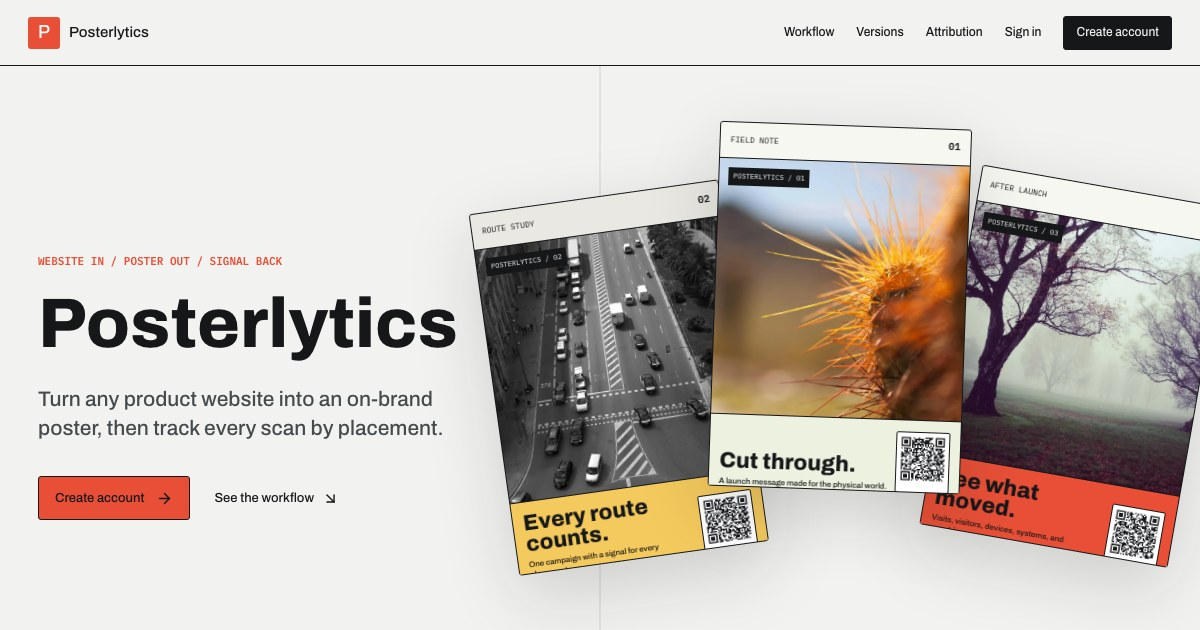
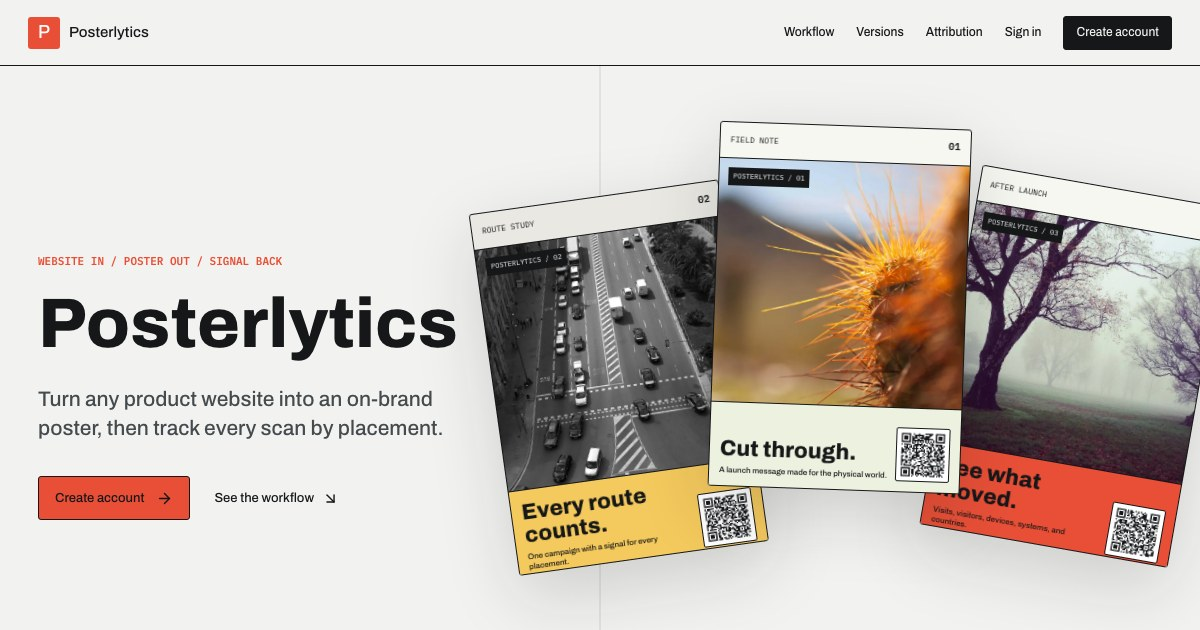
fix: prevent sample poster footer clipping

Changed region(s): [[0.4008, 0.3016, 1.0, 0.9048]]

diff --git a/src/marketing/public.css b/src/marketing/public.css
@@ -342,11 +342,16 @@
 }
 
 .sample-poster {
+  --sample-poster-header-height: 36px;
+  --sample-poster-footer-height: 84px;
   position: relative;
   display: grid;
   width: 100%;
   aspect-ratio: 0.69;
-  grid-template-rows: 36px minmax(0, 1fr) 72px;
+  grid-template-rows:
+    var(--sample-poster-header-height)
+    minmax(0, 1fr)
+    var(--sample-poster-footer-height);
   overflow: hidden;
   border: 1px solid #151719;
   border-radius: 3px;
@@ -408,7 +413,7 @@
   margin: 0;
   font-size: 22px;
   font-variation-settings: 'wdth' 92, 'wght' 800;
-  line-height: 0.95;
+  line-height: 1.05;
 }
 
 .sample-poster-copy p {
@@ -423,6 +428,10 @@
   border: 1px solid #151719;
   border-radius: 2px;
   background: #ffffff;
+}
+
+.sample-poster-qr img {
+  display: block;
 }
 
 .sample-poster-qr img,
@@ -448,7 +457,8 @@
 }
 
 .sample-poster-compact {
-  grid-template-rows: 27px minmax(0, 1fr) 58px;
+  --sample-poster-header-height: 27px;
+  --sample-poster-footer-height: 68px;
   box-shadow: 0 16px 40px rgba(21, 23, 25, 0.16);
 }
 
@@ -1360,6 +1370,14 @@
 }
 
 @media (max-width: 820px) {
+  .sample-poster {
+    --sample-poster-footer-height: 96px;
+  }
+
+  .sample-poster-compact {
+    --sample-poster-footer-height: 68px;
+  }
+
   .public-nav-shell {
     gap: 10px;
     padding: 0 14px;
@@ -1597,7 +1615,12 @@
   }
 
   .sample-poster {
-    grid-template-rows: 27px minmax(0, 1fr) 68px;
+    --sample-poster-header-height: 27px;
+    --sample-poster-footer-height: 72px;
+  }
+
+  .sample-poster-compact {
+    --sample-poster-footer-height: 68px;
   }
 
   .sample-poster-copy {

diff --git a/AGENTS.md b/AGENTS.md
@@ -25,3 +25,8 @@ Key patterns:
 
 - Complete large planned features end to end, including implementation, verification, and requested delivery. Do not stop after a partial slice when the remaining work is feasible.
 - When context is running low, write a compact checkpoint or handoff, then resume from it until the feature and its verification are complete.
+
+## Notion project tracking
+
+- Keep the [Posterlytics Notion board](https://www.notion.so/alexhomebase/Posterlytics-38412ea3d4678044b95ae6a93cad0159?source=copy_link) up to date whenever creating or revising a plan and whenever making repository modifications.
+- Update the board with the current scope, status, and outcome as part of the same task. If Notion access is unavailable, explicitly report the blocker instead of silently skipping the update.
